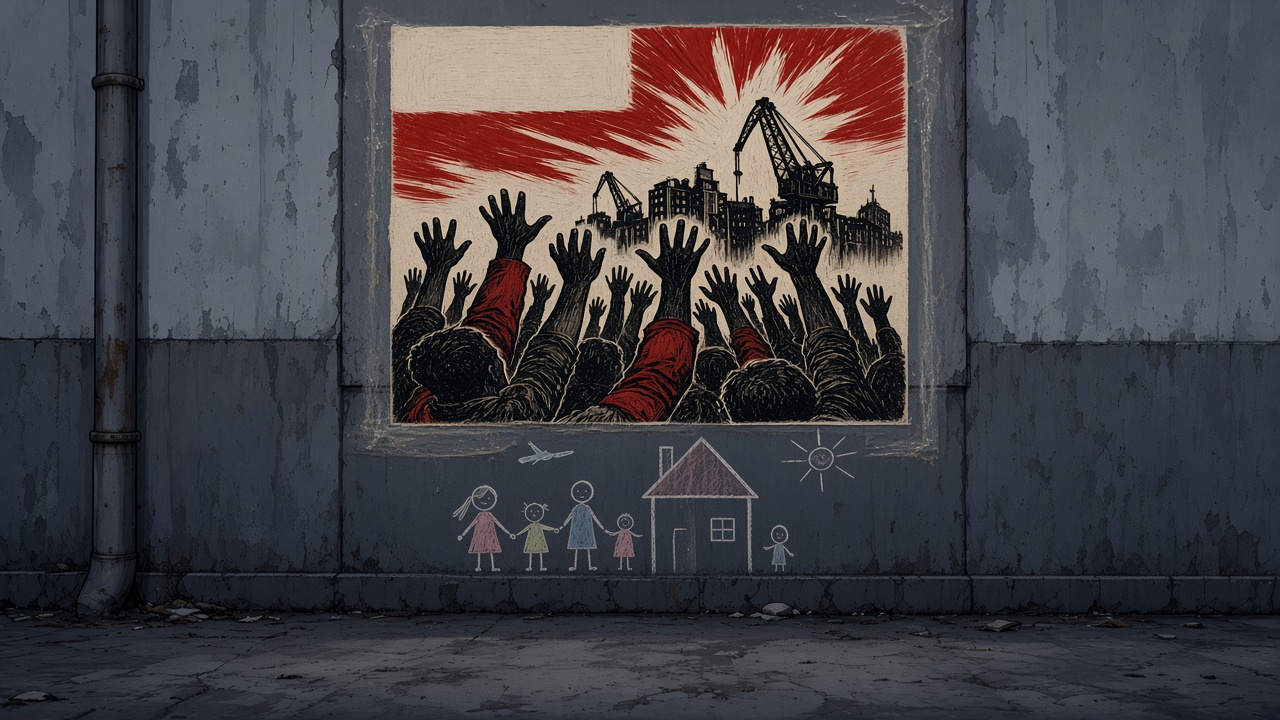
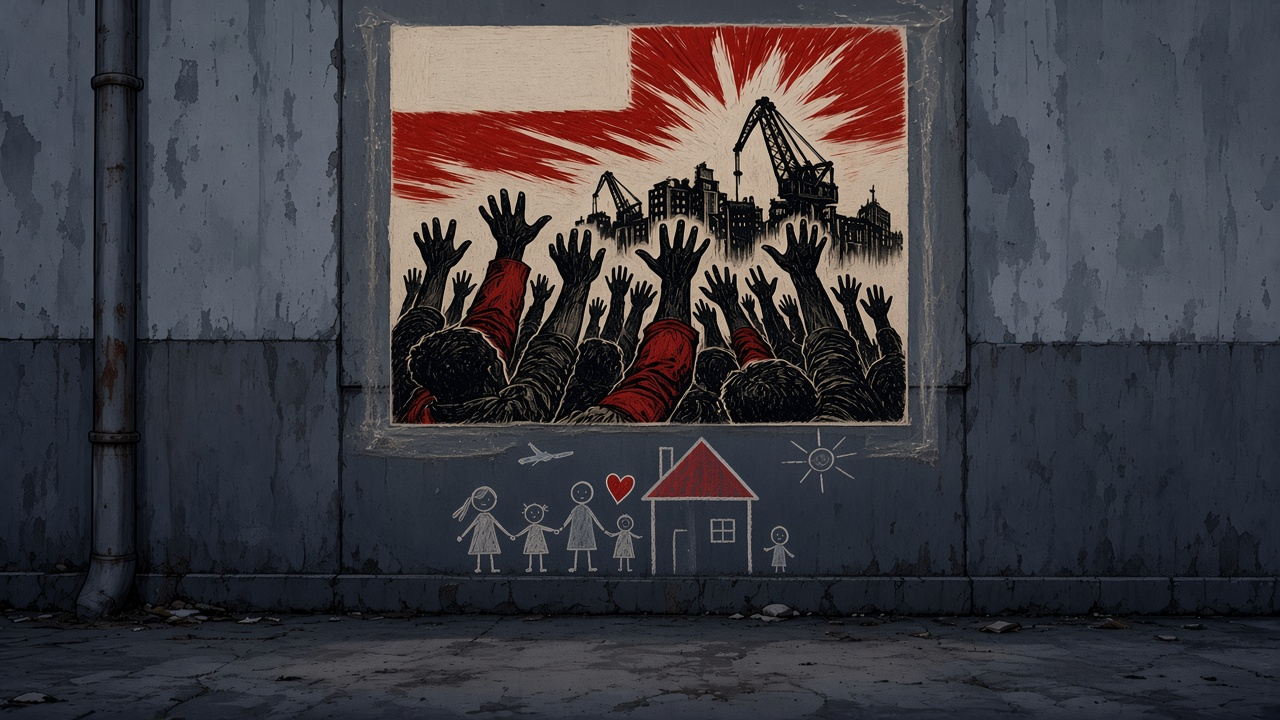
Art: fix four scene issues (adult watchers in broadcast airing, Teodor's skin in strike, red/ink barrier in occupiers, in-palette chalk on all three kid's walls); docs updated

diff --git a/docs/art-notes.md b/docs/art-notes.md
@@ -432,21 +432,31 @@ Known issues, fourth pass:
 - **Captured**: the poster of You copies the anchor's tattoos, ear gauges and
   bandana exactly. This is intentional (it identifies Duff), but the poster is
   more grey than blue-grey.
-- **Broadcast airing**: two of the watchers read as young teens. art-needs bans
-  children only in the raid still, but replace them if you want no minors on
-  screen anywhere.
-- **Kid's wall**: the chalk uses pastel pink, yellow, green and blue. It is
-  childlike and low-saturation, but it goes beyond the strict palette.
-- **Strike**: Teodor holds a red rag in his lowered hand (the only red besides
-  the armbands). His skin reads a little lighter than his brief, as noted for
-  his sprite.
-- **Liberated backdrop and district turns**: the fallen barrier keeps its
-  red-and-white stripes (Duff's call).
-- **Occupiers**: the checkpoint barrier is red-and-white, which fits the
-  movement's red now running the checkpoint.
+- **Broadcast airing**: FIXED (fifth pass). The two watchers who read as young teens are now clearly adults: a middle-aged man and a woman in her 30s.
+- **Kid's wall**: FIXED (fifth pass). In all three versions the chalk is now off-white lines with a movement-red roof and heart. There are no pastels, and the regime poster stays blue-grey. In `over_regime`, one figure's faint blue fill was neutralised by hand (a local desaturation of the chalk only).
+- **Strike**: FIXED (fifth pass). Teodor was redrawn against his approved sprite, with medium-dark brown skin, grey beard and beanie. The red rag stays, as Duff approved.
+- **Liberated backdrop and district turns**: the fallen barrier keeps its red-and-white stripes (Duff's call; not part of the fifth-pass fix).
+- **Occupiers**: FIXED (fifth pass). The barrier is now movement red with dark ink bands, with no white or candy stripes.
 - **Regime poster**: the collar has faint carved marks. They read as texture,
   not lettering, at game size.
 - **District turns**: one woman wears a dull blue apron. It is minor and not
   regime blue-grey.
 - The `.import` files for the new PNGs are not committed. Godot will generate
   them when the editor next opens the project.
+
+## 11. Fifth pass (Nov 14): four scene fixes approved by Duff
+
+These were redrawn as image edits of the fourth-pass files, at the same paths
+(this branch's own files only; nothing from main was overwritten):
+`assets/art/stills/broadcast_airing.png`, `assets/art/stills/strike.png`,
+`assets/art/endings/occupiers.png`, and `assets/art/endings/kids_wall_{bare,your_poster,over_regime}.png`,
+plus their sources in `assets/art/source/`.
+- Broadcast airing: the teen-looking watchers were replaced with adults.
+- Kid's wall x3: the chalk is off-white plus movement red only. `over_regime`
+  needed a second edit and a small hand desaturation of one figure's blue fill.
+- Strike: Teodor was matched to his sprite (the sprite was attached as the
+  reference; this took two edits, since the first barely changed his skin).
+- Occupiers: the barrier is solid red with dark bands.
+All were re-checked for stray text and off-palette colour, and none was found.
+The occupiers barrier still alternates red with dark bands rather than being
+one flat red. That fits "red with dark/ink", but say so if you want it flat.
